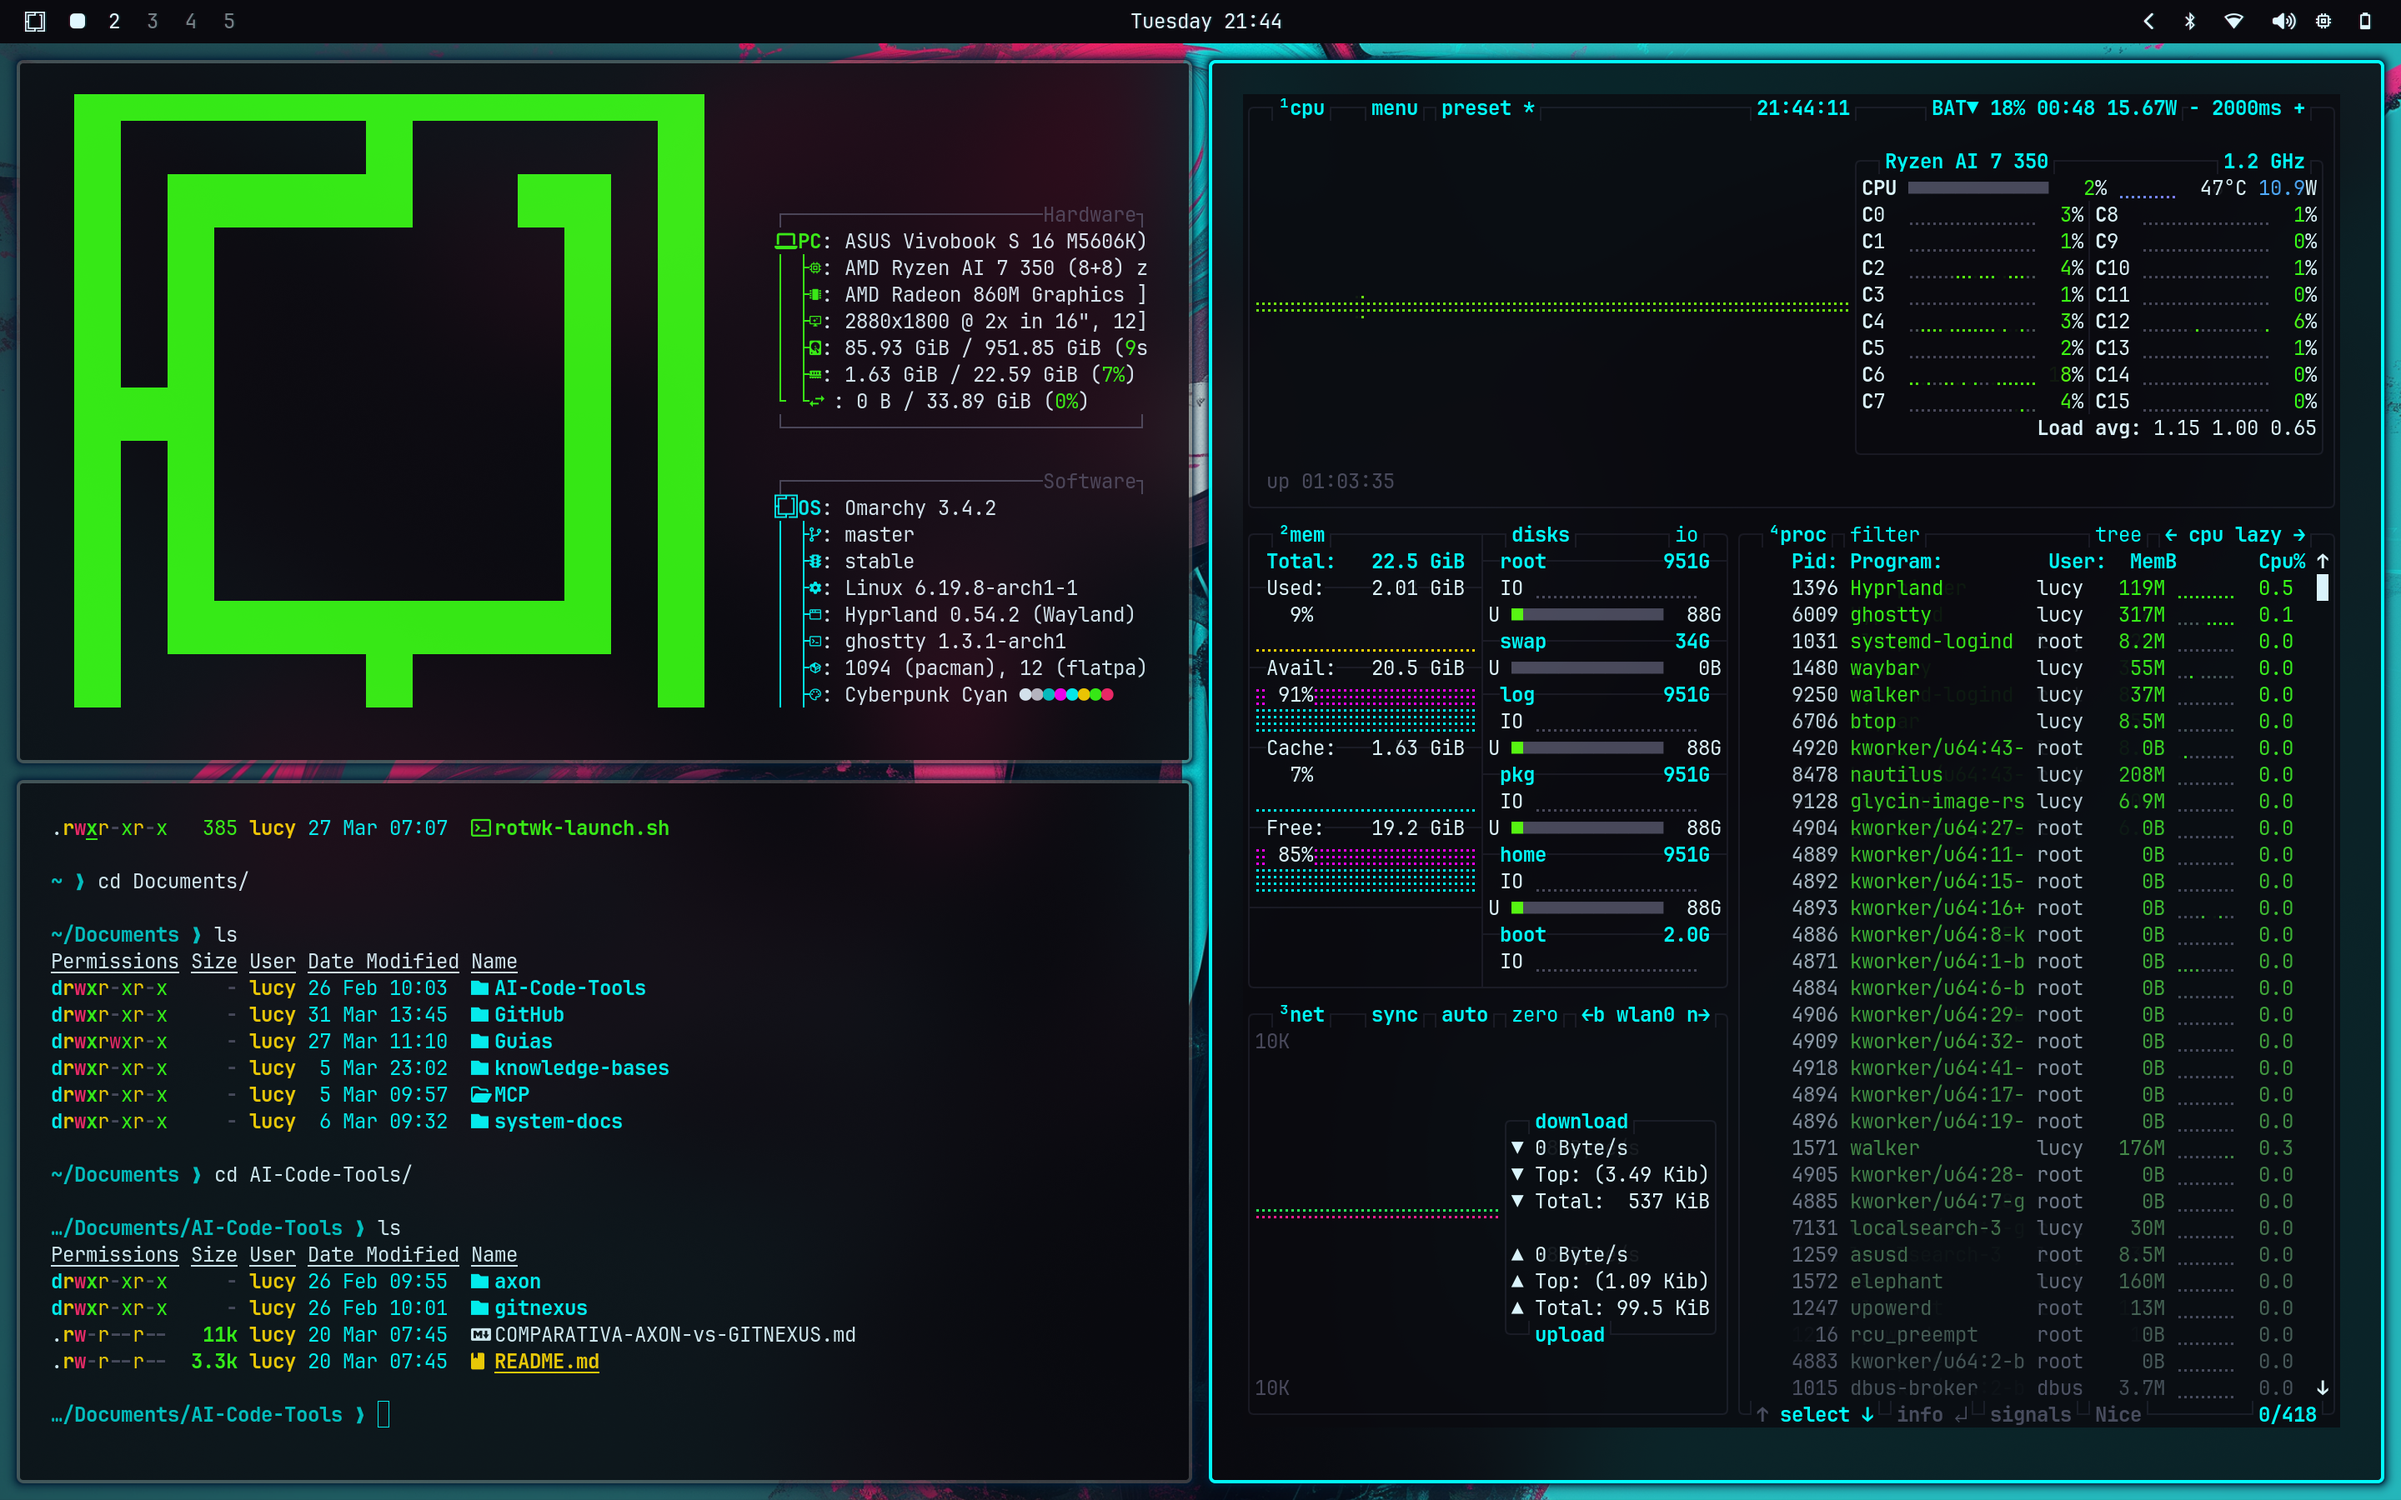
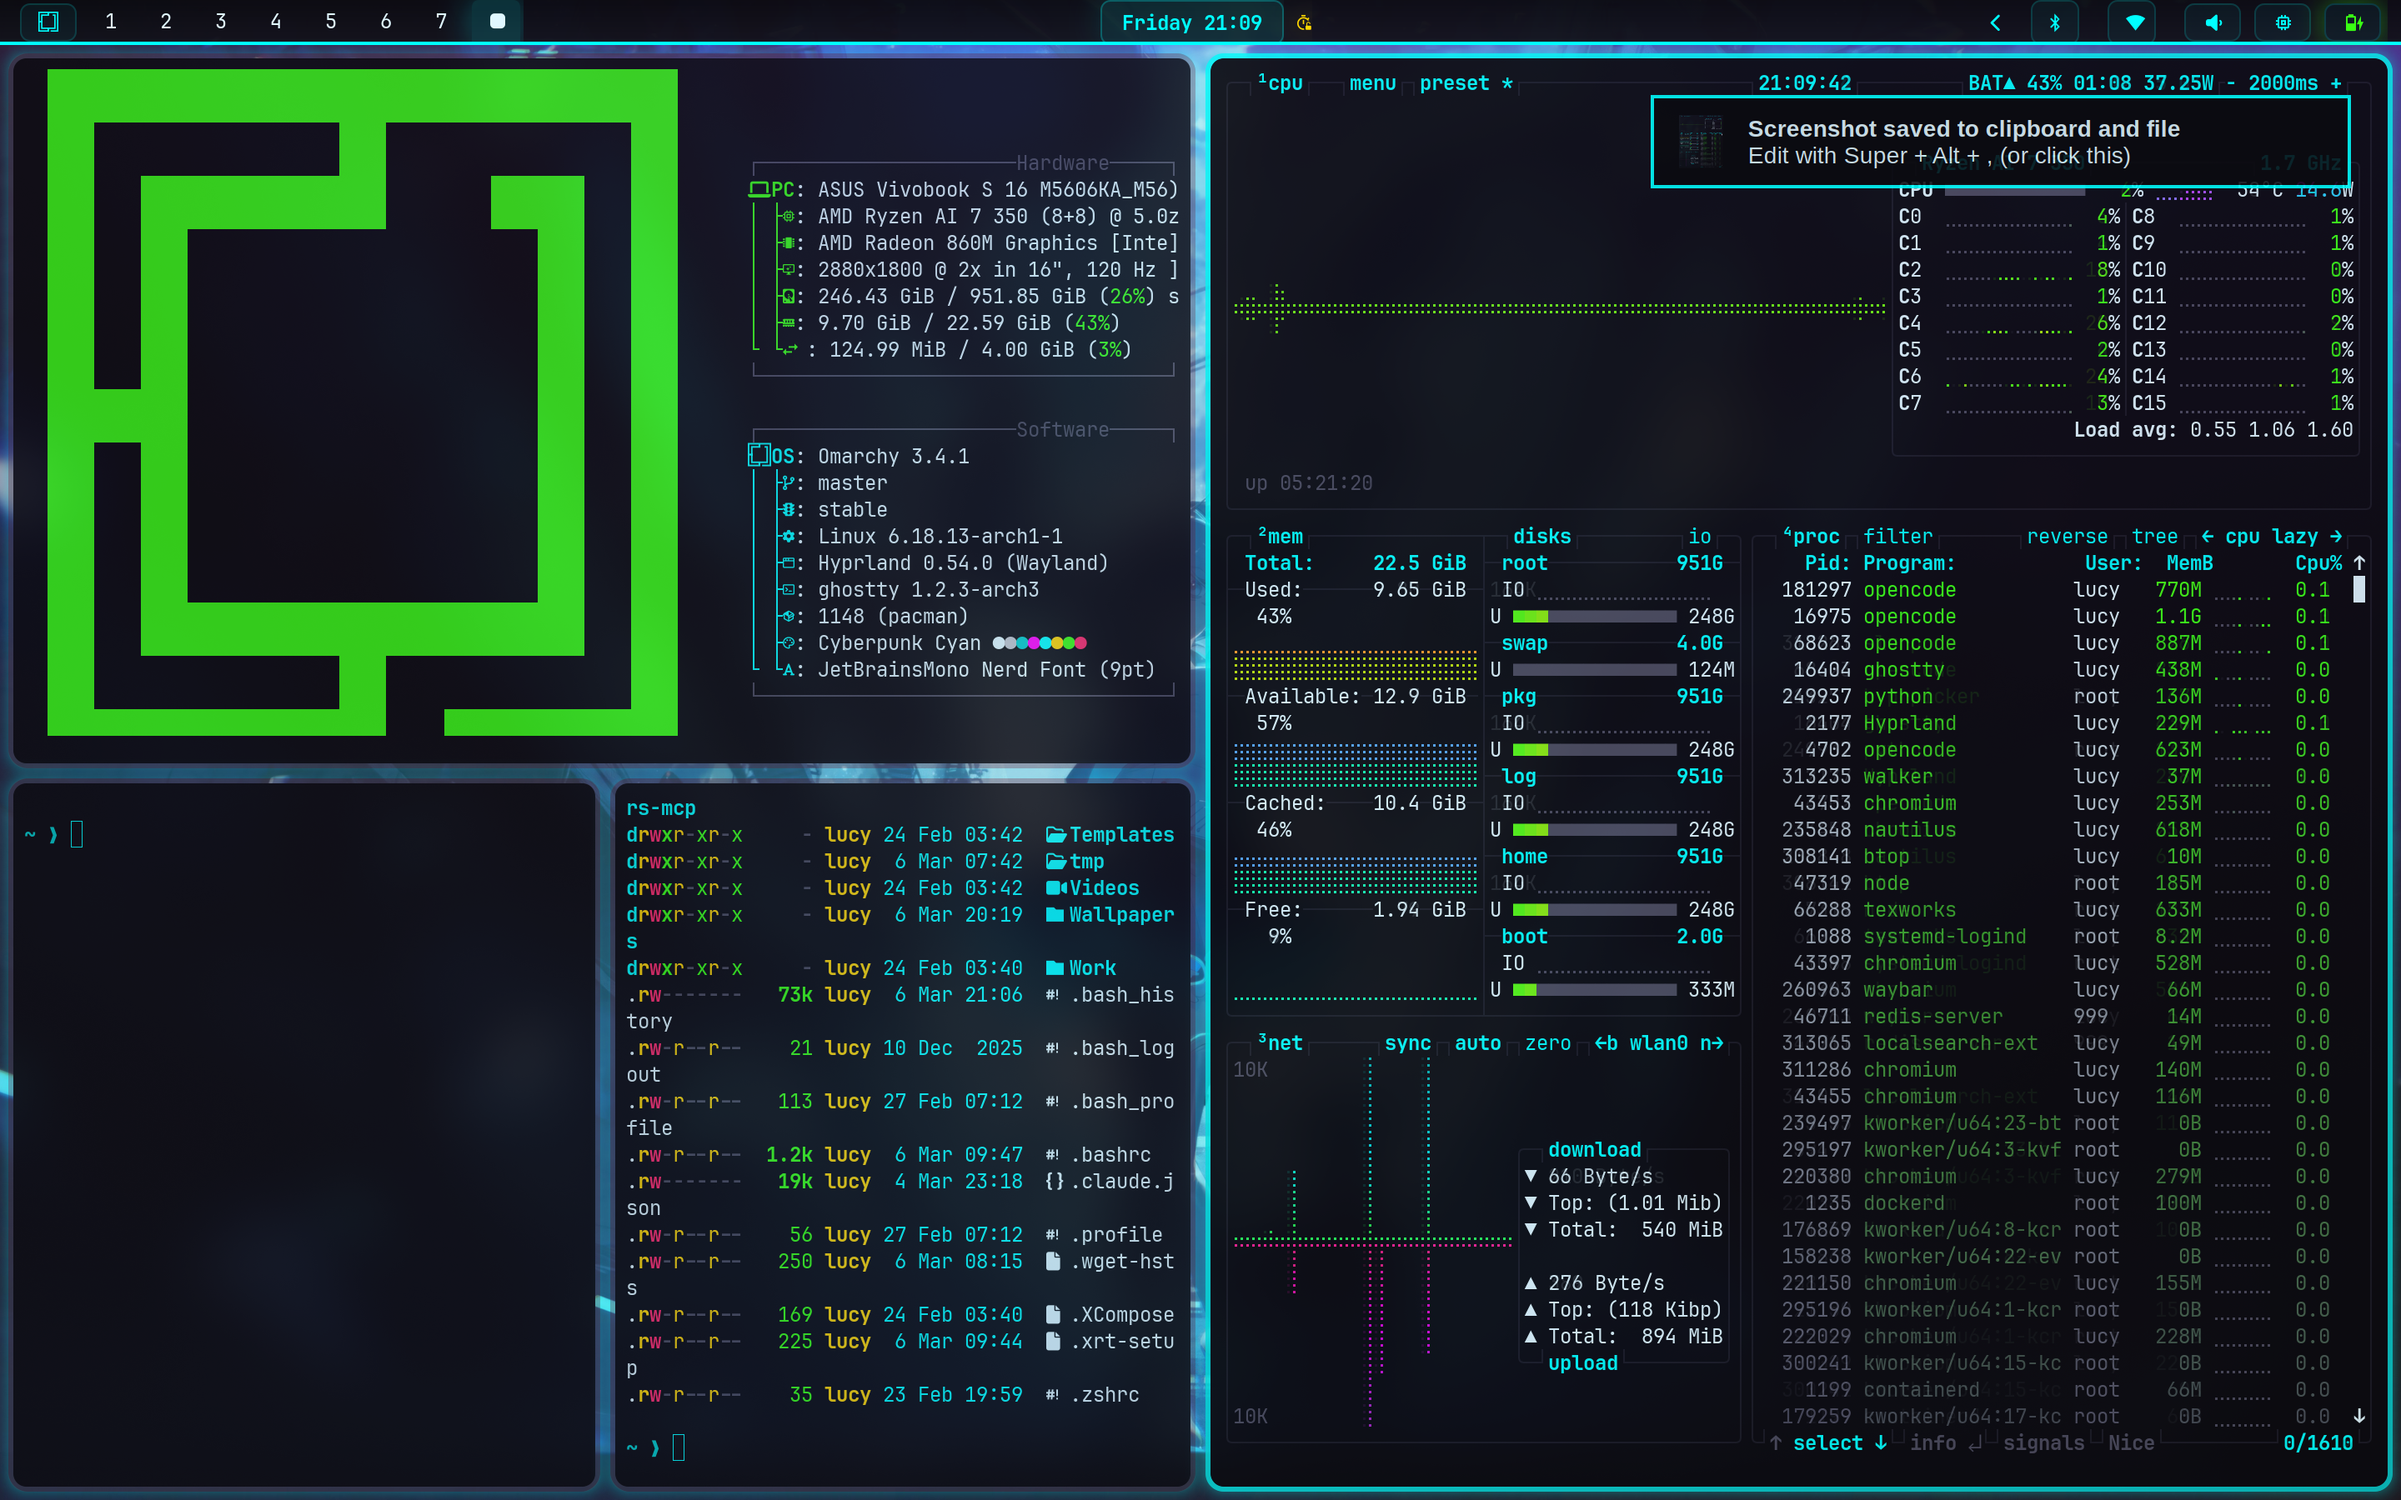
feat: sync theme with system and clean duplicates - Update ghostty.conf with complete configuration (53 lines) - Remove duplicate wallpaper (11 unique remaining) - Update README.md to reflect current wallpaper count - Refresh preview.png from latest system screenshot

Changed region(s): [[0.0, 0.0, 1.0, 1.0], [0.625, 0.7467, 0.7188, 0.9022], [0.5625, 0.8089, 0.5938, 0.84]]

diff --git a/README.md b/README.md
@@ -72,28 +72,29 @@ mouse-scroll-multiplier = 0.95
 - **3-level urgency notifications** in Mako (green/cyan/pink)
 - **Terminal themes** for Alacritty, Kitty, and Ghostty
 - **Obsidian theme** included for note-taking
-- **10 cyberpunk wallpapers** in various resolutions (1080p to 5K)
+- **11 unique cyberpunk wallpapers** in various resolutions (1080p to 5K)
 - **Hyprlock** screen lock theme
 - **SwayOSD** on-screen display styling
 
 ## Wallpapers
 
-The theme includes 10 carefully selected cyberpunk-themed wallpapers:
+The theme includes 11 unique carefully selected cyberpunk-themed wallpapers:
 
 **Default:** `1369816.png` - Cyberpunk street scene (4K)
 
 | Wallpaper | Resolution | Description |
 |-----------|------------|-------------|
-| `matrix-digital-rain` | 6500x3520 | Digital rain effect with cyan tones |
-| `cyberpunk-2077-5th` | 3840x2160 | Cyberpunk 2077 5th wallpaper |
-| `cyberpunk-v-gameplay` | 3840x2160 | Cyberpunk 2077 gameplay scene |
-| `hatsune-miku` | 3840x2160 | Hatsune Miku in cyberpunk style |
-| `hatsune-miku-radiant` | 5120x3066 | Hatsune Miku radiant 5K version |
 | `1369816.png` ⭐ | 4K | **Default** - Cyberpunk street scene |
 | `149972.jpg` | HD | Cyberpunk landscape |
 | `426401.jpg` | 1080p | Minimal cyberpunk design |
 | `693509.png` | 2560x1572 | Neon-lit city street |
 | `821174.jpg` | 1920x1080 | Abstract cyberpunk artwork |
+| `cyberpunk-2077-5th-3840x2160-24843.jpg` | 3840x2160 | Cyberpunk 2077 5th anniversary |
+| `cyberpunk-2077-female-v-2020-games-xbox-series-x-3840x2160-540.jpg` | 3840x2160 | Female V character art |
+| `cyberpunk-v-gameplay-3840x2160.jpg` | 3840x2160 | Female V gameplay scene |
+| `hatsune-miku-3840x2160.jpg` | 3840x2160 | Hatsune Miku cyberpunk style |
+| `hatsune-miku-radiant-5120x3066.jpg` | 5120x3066 | Hatsune Miku radiant 5K |
+| `matrix-digital-rain-6500x3520.jpg` | 6500x3520 | Matrix digital rain cyan |
 
 **Note:** Wallpapers are a compilation found from free sources online.
 
@@ -101,7 +102,7 @@ The theme includes 10 carefully selected cyberpunk-themed wallpapers:
 
 ```
 cyberpunk-cyan/
-├── backgrounds/          # 11 wallpapers
+├── backgrounds/          # 11 unique wallpapers
 ├── colors.toml          # Base color palette
 ├── waybar.css           # Waybar color variables
 ├── btop.theme           # System monitor theme
@@ -114,12 +115,14 @@ cyberpunk-cyan/
 ├── hyprland.conf        # Window manager borders
 ├── alacritty.toml       # Alacritty terminal colors
 ├── kitty.conf           # Kitty terminal colors
-├── ghostty.conf         # Ghostty terminal colors
+├── ghostty.conf         # Ghostty complete configuration (colors + settings)
 ├── swayosd.css          # OSD styling
 ├── obsidian.css         # Obsidian app theme
 ├── chromium.theme       # Chromium browser theme
 ├── keyboard.rgb         # Keyboard RGB colors
 ├── hyprland-preview-share-picker.css  # Screen share picker
+├── shaders/             # Cyberpunk 2077 screen shader
+│   └── cyberpunk2077.frag
 └── preview.png          # Theme preview screenshot
 ```
 
